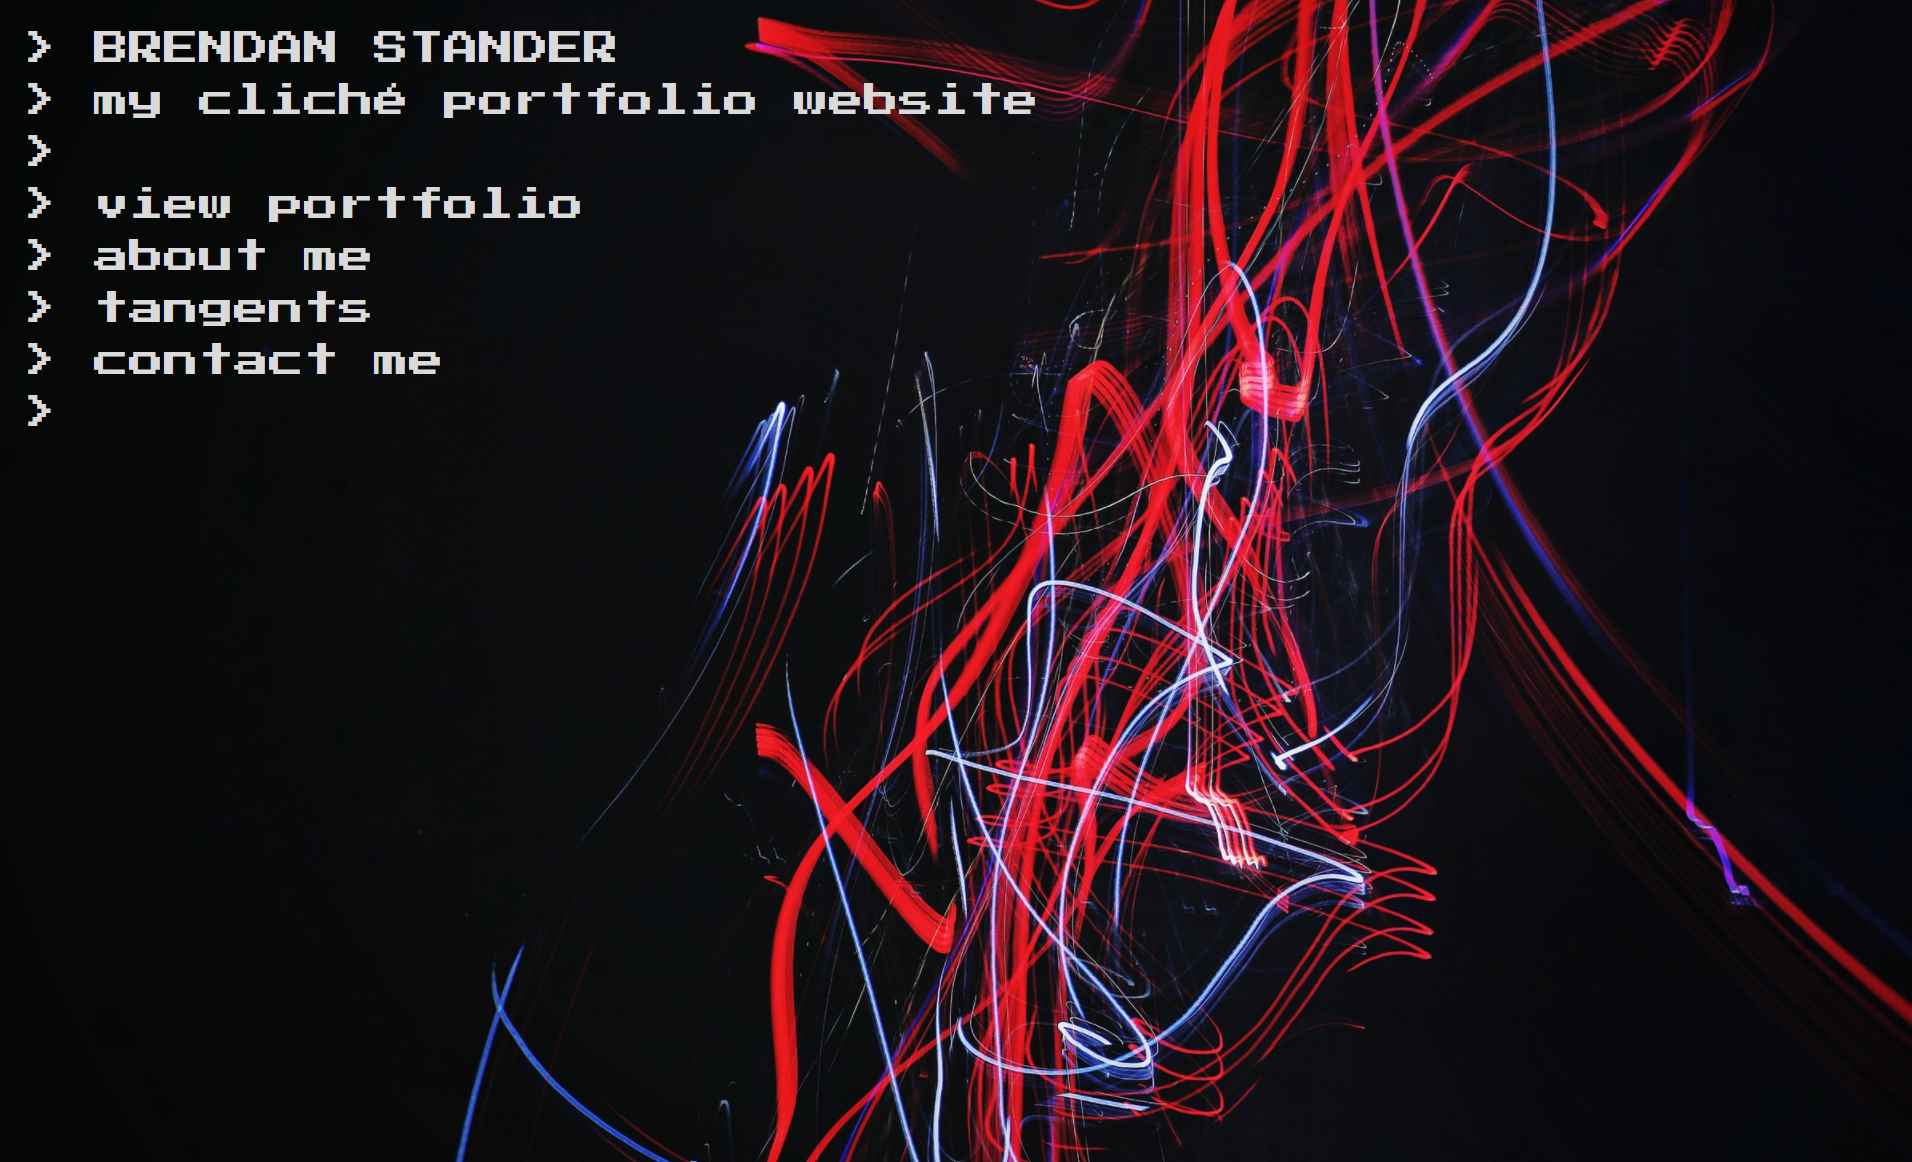
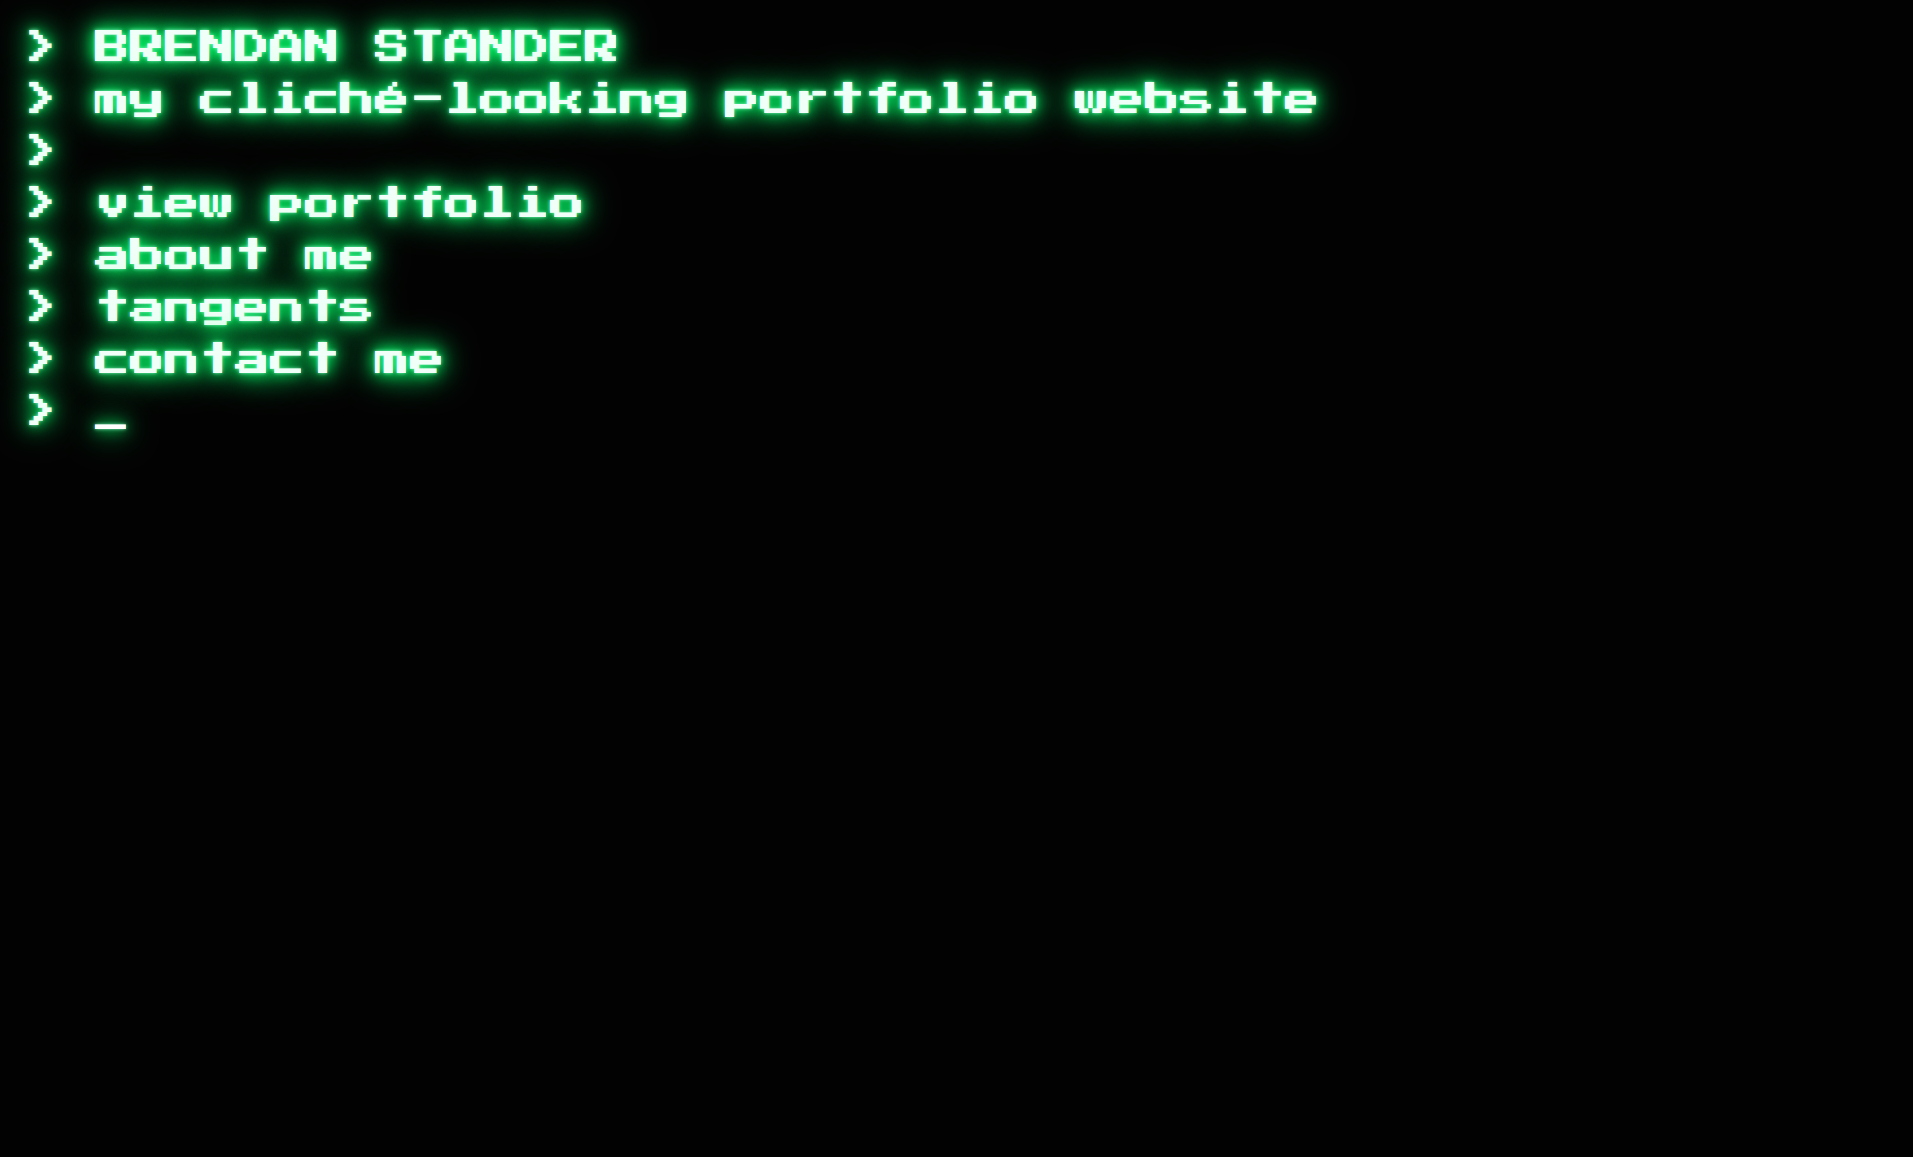
Change stylingto fit old school terminal-like style

diff --git a/components/PortfolioCard.js b/components/PortfolioCard.js
@@ -1,0 +1,47 @@
+import styles from "../styles/PortfolioCard.module.css";
+import { AiFillHtml5 } from "react-icons/ai";
+import { DiCss3 } from "react-icons/di";
+import { IoLogoJavascript } from "react-icons/io";
+import { BsFillBootstrapFill } from "react-icons/bs";
+import { GrReactjs } from "react-icons/gr";
+import {
+  SiNextdotjs,
+  SiExpress,
+  SiMongodb,
+  SiVercel,
+  SiHeroku,
+  SiMailchimp
+} from "react-icons/si";
+
+export default function PortfolioCard(props) {
+
+  const iconRef = {
+    html: <AiFillHtml5 className={styles.ico} data-toggle="tooltip" title="HTML"/>,
+    css: <DiCss3 className={styles.ico} data-toggle="tooltip" title="CSS"/>,
+    bootstrap: <BsFillBootstrapFill className={styles.ico} data-toggle="tooltip" title="Bootstrap"/>,
+    js: <IoLogoJavascript className={styles.ico} data-toggle="tooltip" title="JavaScript"/>,
+    react: <GrReactjs className={styles.ico} data-toggle="tooltip" title="ReactJS"/>,
+    next: <SiNextdotjs className={styles.ico} data-toggle="tooltip" title="NextJS"/>,
+    express: <SiExpress className={styles.ico} data-toggle="tooltip" title="ExpressJS"/>,
+    mongo: <SiMongodb className={styles.ico} data-toggle="tooltip" title="MongoDB"/>,
+    vercel: <SiVercel className={styles.ico} data-toggle="tooltip" title="Vercel"/>,
+    heroku: <SiHeroku className={styles.ico} data-toggle="tooltip" title="Heroku"/>,
+    mailchimp: <SiMailchimp className={styles.ico} data-toggle="tooltip" title="Mailchimp"/>,
+  };
+  return (
+    <div className={styles.portCard}>
+      <p>#{props.num}</p>
+      <a href={props.source} target="_blank" rel="noreferrer">
+        <img className={styles.image} src={props.imgSource} alt="Err" />
+      </a>
+      <h4>{props.name}</h4>
+      <hr/>
+      {props.tools &&
+        props.tools.map((tool) => (
+          <span className="mx-1">{iconRef[tool]}</span>
+        ))}
+      <p className="mt-2">{props.description}</p>
+      <a target="_blank" href={props.sourceCode} rel="noreferrer" className={styles.viewCode}>Source Code</a>
+    </div>
+  );
+}

diff --git a/styles/globals.css b/styles/globals.css
@@ -6,8 +6,12 @@ body {
   margin: 0 !important;
   /* background-image: url('/cat-han.jpg'); */
   /* background-image: url('/peter-gargiulo.jpg'); */
-  background-image: url('/hao-wang.jpg');
-  /* background-color: black; */
+  /* background-image: url('/hao-wang.jpg'); */
+  background-color: rgb(2, 2, 2);
+  /* color: #aff7c2;
+  text-shadow: 0 0 1px #80ffc0, 0 0 3px #00ff66, 0 0 5px #00ff66, 0 0 10px #00ff66; */
+  color: #f0fff8; 
+  text-shadow: 0 0 3px #80ffc0, 0 0 10px #00ff66, 0 0 20px #00ff66, 0 0 30px #00ff66;
   height: 100% !important;
   background-position: center;
   background-repeat: no-repeat;
@@ -52,7 +56,7 @@ a {
 
 .main-link:hover {
   cursor: pointer;
-  color: white;
+  color: rgb(100, 250, 100);
 }
 
 .link-area:hover .blinker {
@@ -65,6 +69,7 @@ a {
   }
   50% {
     color: transparent;
+    text-shadow: none;
   }
 }
 
@@ -74,6 +79,7 @@ a {
   }
   50% {
     color: transparent;
+    text-shadow: none;
   }
 }
 
@@ -83,6 +89,7 @@ a {
   }
   50% {
     color: transparent;
+    text-shadow: none;
   }
 }
 
@@ -92,6 +99,7 @@ a {
   }
   50% {
     color: transparent;
+    text-shadow: none;
   }
 }
 
@@ -101,5 +109,6 @@ a {
   }
   50% {
     color: transparent;
+    text-shadow: none;
   }
 }

diff --git a/styles/PortfolioCard.module.css b/styles/PortfolioCard.module.css
@@ -1,0 +1,47 @@
+.portCard {
+  padding: 1rem;
+  border: 1px solid #66fab5; 
+  box-shadow: 0 0 1px #80ffc0, 0 0 3px #00ff66, 0 0 7px #00ff66, 0 0 10px #00ff66;
+  text-shadow: 0 0 1px #80ffc0, 0 0 2px #00ff66, 0 0 5px #00ff66, 0 0 7px #00ff66;
+  font-family: Consolas, Menlo, Monaco, Lucida Console, Liberation Mono, DejaVu Sans Mono, Bitstream Vera Sans Mono, Courier New, monospace, serif !important;
+  margin-bottom: 2rem;
+  height: 100%;
+  position: relative;
+}
+
+.imageContainer {
+  /* margin-bottom: 1.5rem; */
+}
+
+.image {
+  float: left;
+  width: 100%;
+  height: 18rem;
+  object-fit: cover;
+  margin-bottom: 1.5rem;
+}
+
+.image:hover {
+  filter: opacity(0.65);
+}
+
+.ico {
+  color: #f0fff8; 
+  /* box-shadow: 0 0 1px #80ffc0, 0 0 2px #00ff66, 0 0 5px #00ff66, 0 0 7px #00ff66; */
+  filter: drop-shadow(0 0 7px #00ff66);
+  margin: 1rem 1rem 1rem 0;
+  font-size: 1.5rem;
+}
+
+.portCard hr {
+  background-color: #16d87d;
+}
+
+.viewCode {
+  /* padding: 0.4rem;
+  border: 1px solid #66fab5; 
+  box-shadow: 0 0 1px #80ffc0, 0 0 1px #00ff66, 0 0 3px #00ff66, 0 0 5px #00ff66; */
+  text-decoration: underline;
+  position: absolute;
+  bottom: 12px;
+}

diff --git a/pages/portfolio.js b/pages/portfolio.js
@@ -1,6 +1,6 @@
 import styles from "../styles/Portfolio.module.css";
 import Link from "next/link";
-import PortConsole from "../components/PortConsole";
+import PortfolioCard from "../components/PortfolioCard";
 import portfolioData from '../portfolioData.json'
 
 export default function portfolio() {
@@ -9,6 +9,7 @@ export default function portfolio() {
     <div className={styles.portfolio}>
       
       <h3>&#62; PORTFOLIO</h3>
+      <h3>&#62; =========</h3>
       <h3>&#62; some of my projects</h3>
       <h3>&#62;</h3>
       <div className="link-area">
@@ -25,11 +26,11 @@ export default function portfolio() {
         </h3>
       </div>
 
-      <div className="row">
+      <div className="row mt-5">
         {data.map((item,i)=> (
-          <div className="col-lg" key={i}>
-            <PortConsole 
-              num={i}
+          <div className="col-lg-4 mb-4" key={i}>
+            <PortfolioCard 
+              num={i+1}
               name={item.name}
               description={item.description}
               source={item.source}

diff --git a/pages/contact-me.js b/pages/contact-me.js
@@ -5,7 +5,8 @@ export default function contactMe() {
   return (
     <div className={styles.contact}>
       <h3>&#62; CONTACT ME</h3>
-      <h3>&#62; form still to come</h3>
+      <h3>&#62; ===============</h3>
+      <h3>&#62; form still to come. maybe</h3>
       <h3>&#62;</h3>
       <div className="link-area">
         <h3 className='main-link'>&#62; <a href='mailto:info@bren-10.co.za'><span>email<span className='blink-link'>_</span></span></a></h3>

diff --git a/pages/index.js b/pages/index.js
@@ -18,6 +18,7 @@ export default function Home() {
       <div className={styles.home}>
         {/* Are <li> list items outdated? Gonna give it a pass for now.*/}
         <h3>&#62; BRENDAN STANDER</h3>
+        <h3>&#62; ===============</h3>
         <h3>&#62; my clich&#233;-looking portfolio website</h3>
         <h3>&#62;</h3>
         <div className="link-area">

diff --git a/pages/tangents.js b/pages/tangents.js
@@ -5,6 +5,7 @@ export default function tangents() {
   return (
     <div className={styles.tangents}>
       <h3>&#62; TANGENTS</h3>
+      <h3>&#62; ========</h3>
       <h3>&#62; for the sake of having a backend</h3>
       <h3>&#62;</h3>
       <div className="link-area">

diff --git a/pages/about-me.js b/pages/about-me.js
@@ -5,6 +5,7 @@ export default function aboutMe() {
   return (
     <div className={styles.about}>
       <h3>&#62; ABOUT ME</h3>
+      <h3>&#62; ========</h3>
       <h3>&#62; basic information about me</h3>
       <h3>&#62;</h3>
       <div className="link-area">

diff --git a/styles/About.module.css b/styles/About.module.css
@@ -1,6 +1,5 @@
 .about {
   padding: 1.5rem;
-  color: rgb(218, 218, 218);
 }
 
 .console {

diff --git a/styles/Portfolio.module.css b/styles/Portfolio.module.css
@@ -1,4 +1,3 @@
 .portfolio {
   padding: 1.5rem;
-  color: rgb(218, 218, 218);
 }

diff --git a/styles/Tangents.module.css b/styles/Tangents.module.css
@@ -1,4 +1,3 @@
 .tangents {
   padding: 1.5rem;
-  color: rgb(218, 218, 218);
 }

diff --git a/styles/Contact.module.css b/styles/Contact.module.css
@@ -1,4 +1,3 @@
 .contact {
   padding: 1.5rem;
-  color: rgb(218, 218, 218);
 }
